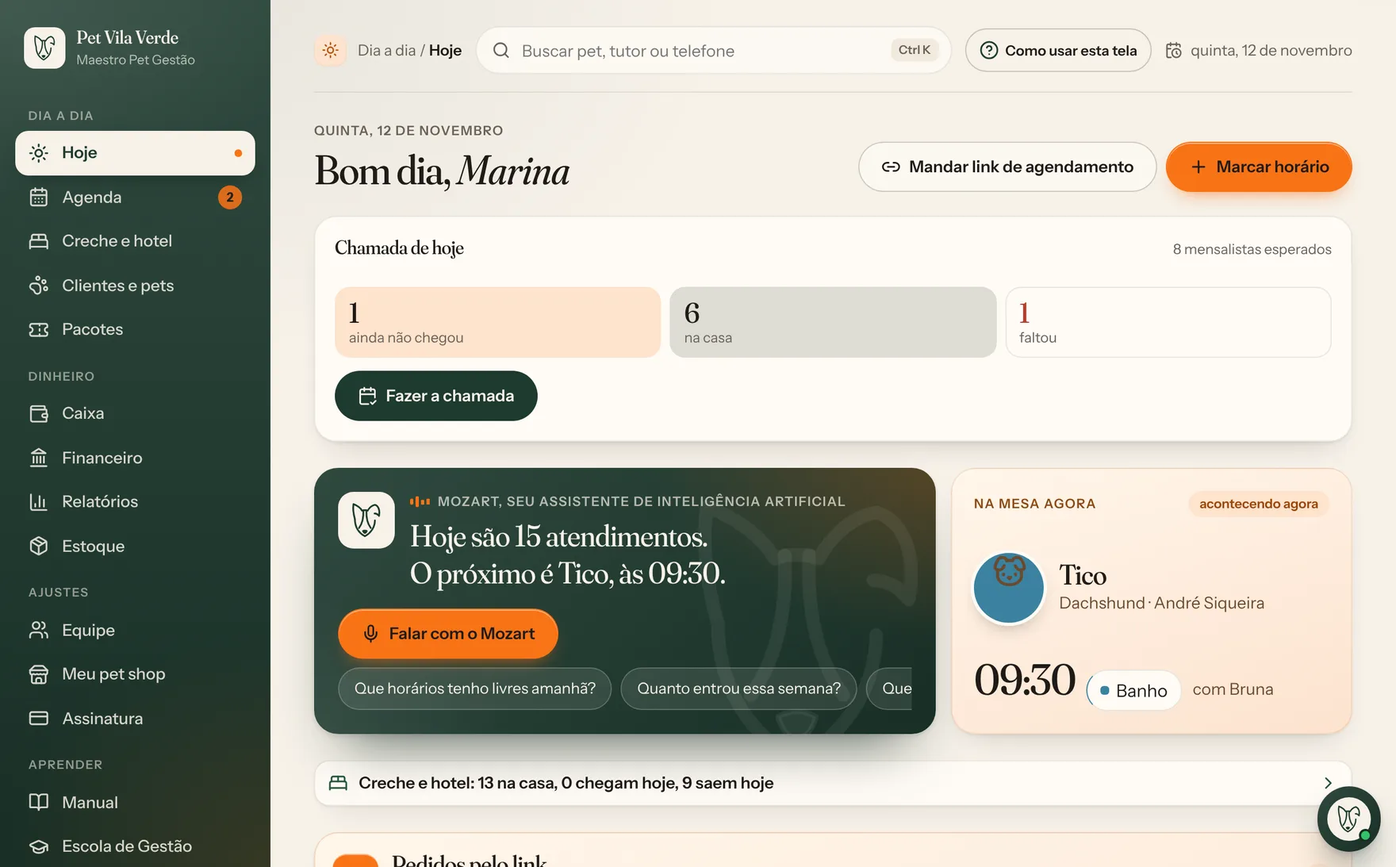
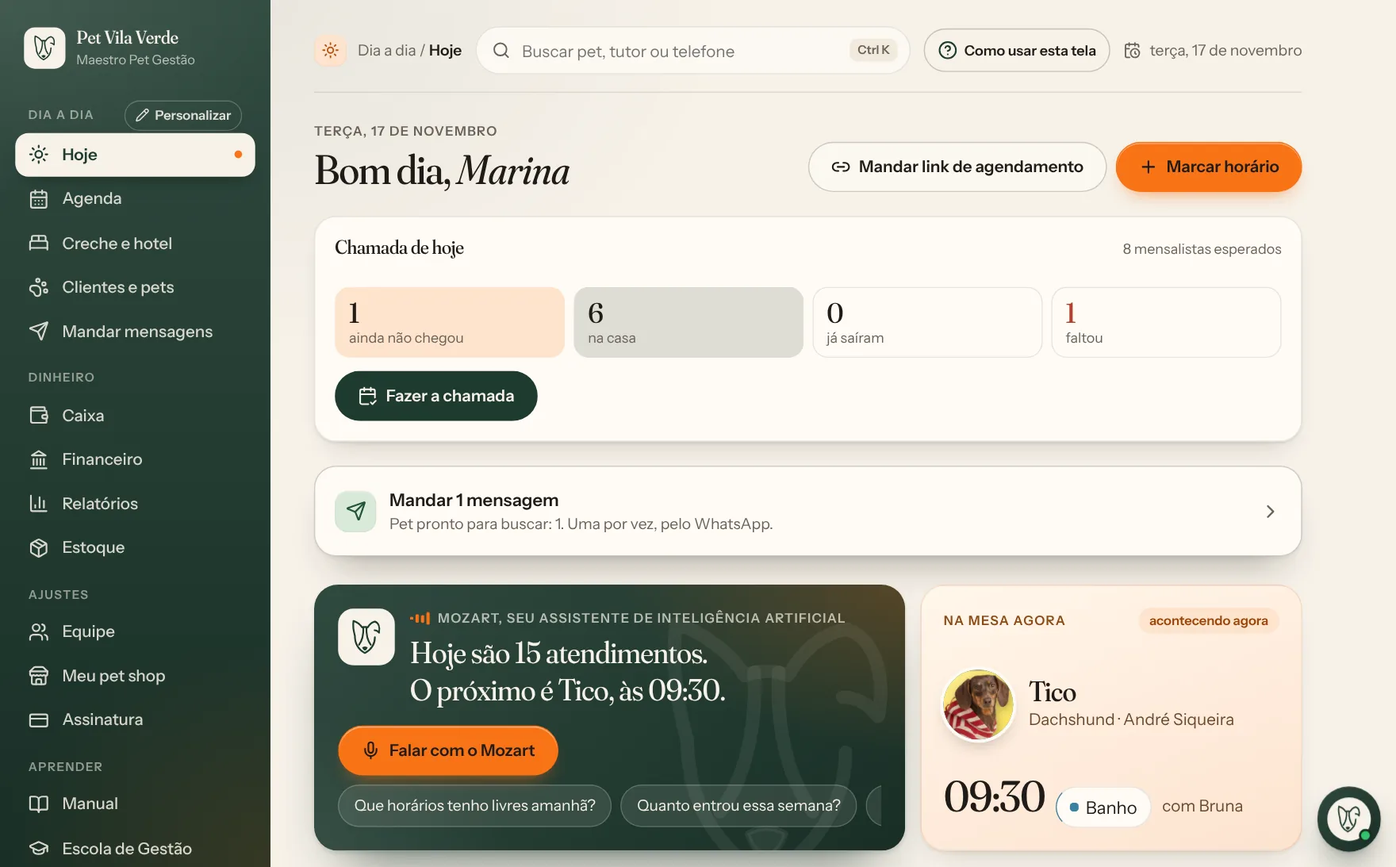
Página de venda: promessa mais clara, funções novas com tela de verdade e fotos reais
- Capa: "O seu pet shop organizado, do banho ao caixa", com o Mozart nos selos e quanto custa manter o pet shop.
- O que muda: duas seções novas com tela tirada do sistema (quanto custa manter o pet shop, nas contas fixas,
  e o quadro do dia do banho e tosa com entrada e leva e traz). Mozart vira a 7ª.
- Novidades: cartões curtos do que chegou por último (mensagens em fila, promoção, orçamento pelo link,
  estoque com lote e validade, resumo da semana, Mozart mais rápido, convite por link, dados do tutor).
- O que não faz: maquininha, leva e traz sem mapa ao vivo e cópia de segurança que não volta.
- Perguntas, lista de funções, título e descrição atualizados (manual com mais de 200 tópicos).
- Boletim de exemplo com duas fotos de verdade da mesma poodle, no lugar dos cachorros desenhados.
- Tela inicial (pc-hoje) tirada de novo com o Tico com foto na mesa.
- Na mesa agora: o ícone do pet sem foto ficava no canto do círculo (a regra dos textos do cartão
  pegava o avatar); agora fica centralizado.

Claude-Session: https://claude.ai/code/session_01HswiybaiUCNiJJ4YwPDB39

diff --git a/src/app/(gestao)/gestao/page.tsx b/src/app/(gestao)/gestao/page.tsx
@@ -1,6 +1,6 @@
 import type { Metadata } from "next";
 import Link from "next/link";
-import { ArrowRight, CalendarCheck, Check, MessageCircle, Monitor, Palette, Smartphone, Sparkles, ToggleRight } from "lucide-react";
+import { ArrowRight, Boxes, CalendarCheck, CalendarRange, Check, FileText, Gauge, KeyRound, Megaphone, MessageCircle, Monitor, Palette, Send, ShieldCheck, Smartphone, Sparkles, ToggleRight } from "lucide-react";
 import Instalar from "@/components/gestao/instalar";
 import Vitrine, { Areas } from "@/components/gestao/vitrine";
 import ChatVendas from "@/components/gestao/chat-vendas";
@@ -14,15 +14,15 @@ import "./produto.css";
 
 // espaço que não quebra: "R$ 59" fica sempre na mesma linha
 const DESDE = brlCurto(PLANOS[0].preco).replace(" ", "\u00a0");
-const TITULO = `Maestro Pet Gestão: banho e tosa, creche, hotel e loja num sistema só, desde ${DESDE}`;
+const TITULO = `Maestro Pet Gestão: sistema para pet shop, banho e tosa, creche, hotel e loja, desde ${DESDE}`;
 
 export const metadata: Metadata = {
   title: { absolute: TITULO },
-  description: `Banho e tosa, creche, hotel e loja no mesmo sistema, com todas as funções em todos os planos, desde ${DESDE} por mês. Boletim do pet com fotos pelo link, clientes trazidos da foto do caderno, creche com a cobrança do mês, hotel com diária por porte e o Mozart, assistente por voz e texto, sem pagar à parte. 7 dias grátis, sem cartão.`,
+  description: `Agenda, clientes, creche, hotel, loja e financeiro do pet shop num sistema só, com todas as funções em todos os planos, desde ${DESDE} por mês. Boletim do pet com fotos pelo link, quadro do dia do banho e tosa, quanto custa manter o pet shop e o Mozart, assistente por voz e texto, sem pagar à parte. 7 dias grátis, sem cartão.`,
   // A página de venda aparece no Google; o aplicativo e as telas de entrada continuam fora (layout do grupo).
   robots: { index: true, follow: true },
   alternates: { canonical: "/gestao" },
-  openGraph: { title: TITULO, description: `Todas as funções em todos os planos, desde ${DESDE}. Boletim do pet com fotos pelo link, sem o tutor instalar nada. Creche que fecha a conta do mês, hotel com o preço certo até no link do cliente, dinheiro protegido quando tem equipe e o Mozart, assistente por voz e texto. 7 dias grátis, sem cartão.`, url: "/gestao" },
+  openGraph: { title: TITULO, description: `O seu pet shop organizado, do banho ao caixa. Todas as funções em todos os planos, desde ${DESDE}: boletim do pet com fotos pelo link, quadro do dia, creche que fecha a conta do mês, hotel com o preço certo, quanto custa manter o pet shop e o Mozart, assistente por voz e texto. 7 dias grátis, sem cartão.`, url: "/gestao" },
 };
 
 const CRIAR = "/gestao/criar-conta";
@@ -34,11 +34,12 @@ const PEDIDOS: [string, string][] = [
   ["“Entrou dez sacos de ração a cento e quarenta.”", "Dá entrada no estoque e lança a compra como despesa."],
   ["“Quanto entrou essa semana?”", "Responde com os números do seu caixa, por forma de pagamento."],
   ["“Quem não aparece há dois meses?”", "Lista os pets e prepara a mensagem de WhatsApp para cada tutor. Quem envia é você."],
+  ["“A luz deste mês veio trezentos e oitenta.”", "Acha a conta de luz do mês em A pagar e mostra o valor novo para você confirmar."],
 ];
 
 type TelaVenda = { arquivo: string; alt: string; celular?: boolean };
 
-/** As quatro coisas que a página mostra primeiro (a quinta é o Mozart, na seção seguinte). Cada frase tem a tela real ao lado. */
+/** As seis coisas que a página mostra primeiro (a sétima é o Mozart, na seção seguinte). Cada frase tem a tela real ao lado. */
 const DIFERENCAS: { id: string; titulo: React.ReactNode; texto: string; itens: string[]; telas: TelaVenda[] }[] = [
   {
     id: "tudo", titulo: <>Tudo num plano só, <em>desde {DESDE}.</em></>,
@@ -49,6 +50,28 @@ const DIFERENCAS: { id: string; titulo: React.ReactNode; texto: string; itens: s
       "Sem fidelidade. 7 dias grátis, sem cartão.",
     ],
     telas: [{ arquivo: "pc-o-que-usa", alt: "Meu pet shop, cartão O que você usa: banho e tosa, creche, hotel, venda de produtos e pacotes marcados, e a área principal escolhida" }],
+  },
+  {
+    id: "contas", titulo: <>Saiba quanto custa <em>manter o pet shop.</em></>,
+    texto: "Cadastre uma vez o aluguel, a luz, os salários e as outras contas fixas. O Financeiro mostra quanto elas somam por mês, quanto você precisa faturar para pagá-las e quanto já entrou.",
+    itens: [
+      "A conta de cada mês entra sozinha em A pagar, 10 dias antes de vencer. Luz e água entram com um valor aproximado até você escrever o certo.",
+      "Taxas da maquininha: ao receber no cartão, você vê quanto recebe de verdade. O crédito parcelado aparece mês a mês no que ainda vai cair.",
+      "Quanto sobrou de cada serviço e produto, já com o custo do material, e quanto cada pessoa atendeu e vendeu.",
+      "Indicadores: faturamento por mês, clientes que voltaram e os dias mais cheios. Sem movimento, a tela diz que ainda não tem dados.",
+    ],
+    telas: [{ arquivo: "pc-contas-fixas", alt: "Financeiro, aba Contas fixas: quanto custa manter o pet shop, quanto precisa faturar no mês para pagar as contas fixas e quanto já entrou, com a barra do quanto falta" }],
+  },
+  {
+    id: "banho", titulo: <>O banho e tosa <em>do começo ao fim.</em></>,
+    texto: "No quadro do dia, cada pet passa de Esperando para No banho, Secando, Pronto e Entregue. Quando ele fica pronto, a mensagem para o tutor abre no seu WhatsApp.",
+    itens: [
+      "Se você ligar, a Entrada abre na chegada: temperamento, ferida ou pulga com até 4 fotos, pertences e o aceite do tutor, assinado no aparelho ou pelo link.",
+      "O quadro pode ficar aberto numa TV ou num computador da loja. No computador, dá para arrastar o cartão.",
+      "Leva e traz: a lista de quem buscar e levar, a rota no Google Maps e o Estou chegando pelo WhatsApp.",
+      "No fim, o boletim com as fotos do banho, que o tutor abre pelo link.",
+    ],
+    telas: [{ arquivo: "pc-quadro", alt: "Quadro do dia do banho e tosa: os pets nas colunas Esperando, No banho, Secando / tosa, Pronto para buscar e Entregue, com o botão da próxima etapa em cada cartão" }],
   },
   {
     id: "creche", titulo: <>Creche que <em>fecha a conta do mês.</em></>,
@@ -83,7 +106,7 @@ const DIFERENCAS: { id: string; titulo: React.ReactNode; texto: string; itens: s
     itens: [
       "Trava de preço: se você ligar, quem só opera o caixa vende pelo preço da lista, com o desconto máximo que você definir.",
       "Atendimento concluído que ficou sem cobrar aparece numa lista para você conferir.",
-      "Cada pessoa vê só a própria comissão.",
+      "Cada pessoa vê só a própria comissão. Quem entra na equipe usa um link de convite, que vale 7 dias e só uma vez.",
       "Toque duplo no botão não lança o mesmo valor duas vezes.",
     ],
     telas: [
@@ -95,34 +118,49 @@ const DIFERENCAS: { id: string; titulo: React.ReactNode; texto: string; itens: s
 
 /** Dito com franqueza, perto das perguntas: o que o sistema ainda não faz. */
 const NAO_FAZ: string[] = [
-  "Não emite nota fiscal nem cupom fiscal.",
-  "Não envia WhatsApp sozinho, nem o boletim. As mensagens saem prontas: você só aperta enviar.",
+  "Não emite nota fiscal nem cupom fiscal. Para o contador, Relatórios e Financeiro saem em planilha.",
+  "Não envia WhatsApp sozinho, nem o boletim. As mensagens saem prontas, uma por vez: você só aperta enviar.",
   "Não recebe pagamento pela internet, nem sinal nem mensalidade. O tutor paga a você, e você anota.",
+  "Não se conecta à maquininha. Você escreve as taxas uma vez e o sistema faz a conta do que você recebe.",
   "Não avisa a hora do remédio. Ele guarda a ficha de cuidados e mostra a lista do dia.",
+  "Não mostra no mapa onde está o carro do leva e traz. A rota abre no Google Maps, com até 10 endereços por vez.",
+  "A cópia de segurança não volta para o sistema. Ela serve para guardar e consultar, e as fotos não entram.",
   "Não é para clínica veterinária: não tem prontuário, receita nem internação.",
   "Não tem aplicativo de loja para o tutor. O cliente usa o seu link.",
 ];
 
+/** O que chegou por último, em cartões curtos (o resto está nas seções com tela). Os textos seguem o manual. */
+const RECENTES: { icone: React.ComponentType; titulo: string; texto: string }[] = [
+  { icone: Send, titulo: "Mandar mensagens em fila", texto: "Lembretes de amanhã, pet pronto, cobrança, vacina vencendo, pacote acabando e aniversários do pet e do tutor: uma por vez, você aperta enviar e passa para a próxima." },
+  { icone: Megaphone, titulo: "Promoção nos dias fracos", texto: "Desconto no dia e no horário que você escolher. O link do cliente mostra o preço de antes e o preço com desconto." },
+  { icone: FileText, titulo: "Orçamento pelo link", texto: "Monte o orçamento e mande no WhatsApp. O cliente abre sem senha, vê a sua logo e toca em Quero fechar. Aceitou? Vira venda com um toque." },
+  { icone: Boxes, titulo: "Estoque mais completo", texto: "Lote e validade (sai primeiro o que vence antes), kits e combos, contagem pelo celular e etiquetas de preço com código de barras." },
+  { icone: CalendarRange, titulo: "Resumo da semana", texto: "Na segunda-feira, a tela Hoje mostra quanto entrou, os atendimentos, as faltas e os pets novos, ao lado da semana anterior." },
+  { icone: Gauge, titulo: "Mozart mais rápido", texto: "A resposta aparece aos poucos, enquanto ele escreve, e ele diz o que está fazendo. A leitura em voz alta começa antes de a resposta terminar." },
+  { icone: KeyRound, titulo: "Convite da equipe por link", texto: "Cada pessoa recebe um link só dela, que vale 7 dias e funciona uma vez. Venceu? Mande de novo e o anterior para de valer." },
+  { icone: ShieldCheck, titulo: "Dados do tutor (LGPD)", texto: "O cliente pediu os dados dele ou para apagar? Baixe a planilha dele ou apague os dados na ficha. Cada pedido fica registrado." },
+];
+
 const INCLUI: [string, string][] = [
-  ["Mozart, assistente por voz e texto", "Diga o que precisa, por áudio ou texto. Ele prepara e você confirma. Vem em todos os planos."],
+  ["Mozart, assistente por voz e texto", "Diga o que precisa, por áudio ou texto. Ele prepara e você confirma. Nos campos de observação também tem microfone. Vem em todos os planos."],
   ["Boletim do pet", "Fotos, recado, o que foi feito e o quadro de atenção à saúde numa página que o tutor abre pelo link, sem instalar nada."],
   ["Álbum do pet", "As fotos dos boletins e do antes e depois ficam na ficha do pet. Dá para mandar o álbum ao tutor."],
   ["Botão Avaliar no Google", "Se você quiser, ele aparece no fim do boletim, do álbum e do link de agendamento, para todos os clientes."],
   ["Trazer do caderno", "Foto do caderno, print ou PDF do sistema antigo: clientes, dívidas, agenda, preços e vacinas. Você confere tudo antes de salvar."],
-  ["Microfone nas observações", "Na ficha do pet, no horário, na estadia e no diário: você fala, o texto entra no campo e você salva."],
   ["Começo guiado", "Você marca o que o seu negócio faz e qual é a área principal. O menu mostra só o que você usa."],
   ["Você liga só o que usa", "Sinal, multa, comissão por serviço, código de barras, diário: cada opção começa desligada. Quem não liga nada não vê nada a mais."],
-  ["Agenda de banho e tosa", "Por dia e por semana, por profissional, com os horários livres à vista e vários serviços no mesmo horário."],
+  ["Agenda de banho e tosa", "Por dia e por semana, por profissional, com os horários livres à vista e vários serviços no mesmo horário. Dá para imprimir a do dia."],
   ["Horários que se repetem", "Marque o banho de toda semana ou quinzena de uma vez, até você cancelar. Almoço, folgas e feriados ficam bloqueados."],
   ["Link de agendamento", "O cliente pede horário de banho, dia de creche ou reserva de hotel. Você aceita ou recusa com um toque."],
   ["Sua marca no sistema", "Sua logo e as suas cores no link do cliente, nas telas e na agenda impressa."],
   ["Clientes e pets", "Porte, cuidados, alertas e o histórico de cada atendimento. Cadastro repetido? Dá para juntar as duas fichas."],
   ["Saúde do pet", "Vacinas, vermífugo e antipulgas com a data de vencer e aviso quando está chegando."],
+  ["Quadro do dia e Entrada", "As etapas de cada pet, do Esperando ao Entregue, e o checklist de chegada com fotos e o aceite do tutor."],
   ["Fotos de antes e depois", "Guarde o resultado do banho e mande para o tutor."],
   ["Lembrete e aviso de pet pronto", "O sistema monta a mensagem e abre o seu WhatsApp. Você só envia."],
-  ["Chamar de volta", "A lista de quem não vem há 30, 45, 60 ou 90 dias e dos aniversariantes da semana, com a mensagem pronta. Você só envia."],
+  ["Chamar de volta", "Quem não vem há 30, 45, 60 ou 90 dias e os aniversariantes do pet e do tutor, com a mensagem pronta. Você só envia."],
   ["Fidelidade do seu jeito", "Você define: a cada tantos atendimentos, um prêmio à sua escolha. O sistema faz a conta de cada tutor."],
-  ["Pacotes", "Quantos banhos o cliente comprou, quantos usou e quando vence."],
+  ["Pacotes", "Quantos banhos o cliente comprou, quantos usou e quando vence. O pacote acabando aparece com a mensagem para renovar."],
   ["Creche com mensalistas", "Plano pelos dias da semana, chamada do dia, dia extra, reposição e as cobranças do mês juntas por tutor."],
   ["Hotel", "Reserva com sinal, diária por porte, temporada e feriado, calendário de ocupação e check-out com taxas."],
   ["Cuidado com o tutor", "Diário do dia, quem pode buscar o pet, lista de espera e ocorrências. O diário sai pronto para você enviar."],
@@ -130,22 +168,23 @@ const INCLUI: [string, string][] = [
   ["Comprovante no WhatsApp", "Recebeu a conta? O sistema monta o comprovante e abre o seu WhatsApp. Não é nota fiscal."],
   ["Caixa do dia", "Abertura, entradas, saídas e fechamento conferido com a gaveta, com planilha para baixar."],
   ["Paga depois e em partes", "Anote quem ficou devendo, receba só uma parte e, se quiser, cobre multa e juros da conta atrasada."],
-  ["Financeiro e meta do mês", "Contas a pagar e a receber, o resultado do mês e quanto falta para a meta."],
-  ["Estoque e loja", "Entradas, saídas, aviso de produto acabando, código de barras, fornecedores, margem e custo médio."],
-  ["Equipe com acesso por área", "Você escolhe o que cada pessoa abre. Quem não cuida do dinheiro não vê valores."],
+  ["Financeiro e contas fixas", "Contas a pagar e a receber, contas fixas que entram sozinhas, quanto custa manter o pet shop, o resultado do mês e a meta."],
+  ["Quanto sobrou e Indicadores", "O que sobrou de cada serviço, produto e pessoa, e os gráficos do negócio mês a mês, ao lado do período anterior."],
+  ["Estoque e loja", "Entradas, saídas, lote e validade, kits, contagem, etiquetas, código de barras, fornecedores, margem e custo médio."],
+  ["Equipe com acesso por área", "Você escolhe o que cada pessoa abre e manda o convite por link. Quem não cuida do dinheiro não vê valores."],
   ["Comissão", "Por pessoa, por serviço e sobre produtos. Cada um vê a própria no cartão Minha comissão."],
   ["Quem mudou o quê", "Alguém alterou ou apagou um valor recebido, ou vendeu fora do preço da lista? Fica anotado quem foi, quando e de quanto para quanto."],
   ["Preço travado no caixa", "Se quiser, só você e quem vê o financeiro mudam preço ou dão desconto. O caixa dá, no máximo, o desconto que você definir."],
-  ["Agenda em PDF", "Baixe ou imprima a agenda do dia para deixar na bancada."],
   ["Relatórios", "Atendimentos, faltas, serviços mais feitos, faturamento, comissão, creche, hotel e vendas por produto, ao lado do período anterior."],
-  ["Leva e traz", "Marque quem precisa ser buscado, com o endereço no próprio horário."],
+  ["Leva e traz", "A lista do dia de quem buscar e levar, com o endereço, a rota no Google Maps e o aviso Estou chegando."],
   ["Clientes da sua planilha", "Traga clientes, pets e produtos de uma planilha. Na de clientes, você confere o que é cada coluna e, se trouxe a planilha errada, desfaz."],
-  ["Manual dentro do sistema", "Mais de 150 tópicos de passo a passo, com busca e para imprimir. E o botão “Como usar esta tela” no alto das telas."],
-  ["Cópia dos seus dados", "Baixe tudo em planilhas para guardar com você. É uma cópia para consulta: não volta para o sistema automaticamente."],
+  ["Manual dentro do sistema", "Mais de 200 tópicos de passo a passo, com busca e para imprimir. E o botão “Como usar esta tela” no alto das telas."],
+  ["Seus dados e os do tutor", "Baixe tudo em planilhas quando quiser, e baixe ou apague os dados de um tutor que pedir (LGPD). A cópia é para guardar: não volta para o sistema."],
 ];
 
 const PERGUNTAS: [string, React.ReactNode][] = [
-  ["O que vocês têm de diferente?", `Dizemos o que fazemos, sem comparar com ninguém. Todas as funções estão em todos os planos, desde ${DESDE}: banho e tosa, creche, hotel e loja no mesmo sistema. A creche tem plano por dia da semana, reposição de falta com a sua regra e as cobranças do mês juntas por tutor. O hotel calcula a diária por porte, temporada e feriado, e o tutor vê a estimativa no seu link. Quem tem equipe conta com trava de preço, valores escondidos de quem não cuida do dinheiro e o histórico de quem mudou um valor. E o Mozart, assistente por voz e texto, vem em todos os planos, sem pagar à parte. De novo: o boletim do pet com fotos, que o tutor abre pelo link sem instalar nada, e a leitura da foto do caderno ou do PDF do sistema antigo, que você confere antes de salvar. O que o sistema ainda não faz está logo acima destas perguntas.`],
+  ["O que vocês têm de diferente?", `Dizemos o que fazemos, sem comparar com ninguém. Todas as funções estão em todos os planos, desde ${DESDE}: banho e tosa, creche, hotel e loja no mesmo sistema. O boletim do pet leva as fotos ao tutor pelo link, sem ele instalar nada. A foto do caderno ou o PDF do sistema antigo viram cadastro, e você confere antes de salvar. No Financeiro, você vê quanto custa manter o pet shop e quanto já entrou no mês. A creche tem plano por dia da semana e as cobranças do mês juntas por tutor. O hotel calcula a diária por porte, temporada e feriado. Quem tem equipe conta com trava de preço, valores escondidos de quem não cuida do dinheiro e o histórico de quem mudou um valor. E o Mozart, assistente por voz e texto, vem em todos os planos, sem pagar à parte. O que o sistema ainda não faz está logo acima destas perguntas.`],
+  ["Consigo saber quanto preciso faturar no mês?", "Para as contas fixas, sim. Em Financeiro, na aba Contas fixas, você cadastra aluguel, luz, salários e o que mais se repete. O quadro Quanto custa manter o pet shop mostra quanto elas somam por mês, quanto você precisa faturar para pagá-las e quanto já entrou neste mês. Produtos, comissões e outras despesas vêm por cima: o quadro não conta essas."],
   ["Quanto custa?", `O plano Solo custa ${DESDE} por mês, para 1 pessoa com login. O Equipe, para até 3 pessoas, custa ${brlCurto(PLANOS[1].preco)}, e o Pet shop, para até 6, ${brlCurto(PLANOS[2].preco)}. Todos têm as mesmas funções. Pagando 3 ou 6 meses de uma vez, sai mais barato. Antes, são 7 dias grátis, sem cartão.`],
   ["O que é o boletim do pet?", "É uma página com as fotos do atendimento, o recado da equipe, o que foi feito e, se você viu algo na saúde, um quadro “Para você ficar de olho”. Você monta em poucos toques (o Mozart pode escrever o recado), e a mensagem com o link sai pronta para o seu WhatsApp. O tutor abre no celular, sem instalar nada. O valor só aparece se você ligar. O link vale 60 dias e as fotos ficam no álbum do pet."],
   ["Tenho tudo num caderno. Preciso digitar de novo?", "Não precisa digitar um por um. Em Clientes e pets, toque em Foto do caderno, fotografe a página e o sistema lê: clientes e pets, quem te deve, agenda e tabela de preços. Tudo aparece numa tela para você conferir e corrigir. Nada entra antes de você tocar em Salvar, e o que não deu para ler fica em branco. Há um limite de 30 páginas por dia."],
@@ -155,23 +194,24 @@ const PERGUNTAS: [string, React.ReactNode][] = [
   ["Preciso configurar muita coisa para começar?", "Não. Ao criar a conta, você marca o que o seu negócio faz (banho e tosa, creche, hotel, venda de produtos, pacotes) e qual é a área principal. O menu e a tela inicial se arrumam para ela. Em seguida, um guia curto acerta o horário, a equipe, os preços e o link do cliente. Cada passo pode ficar para depois, e tudo pode ser mudado mais tarde."],
   ["Serve para creche ou escolinha?", "Sim. Cada mensalista tem um plano pelos dias da semana. Todo dia você faz a chamada com um toque. Dia extra entra na cobrança do mês seguinte, e as cobranças saem juntas por tutor. Se quiser, você liga a taxa de busca fora do horário, o diário do dia para o tutor, a lista de quem pode buscar o pet e a lista de espera."],
   ["Serve para hotel de pets?", "Sim. Tem reserva com sinal, diária por porte, por temporada e em feriado, desconto para o segundo pet, calendário de ocupação com aviso de casa cheia, folha do dia para imprimir, ficha de cuidados com comida e remédio e check-out com taxas. O sistema guarda a ficha de cuidados e mostra a lista do dia, mas não avisa a hora do remédio."],
-  ["Tenho só loja. Serve?", "Serve para controlar o estoque, vender no balcão com leitor de código de barras, guardar fornecedores, ver a margem de cada produto e anotar o fiado. O sistema não emite nota fiscal nem cupom fiscal."],
+  ["Tenho só loja. Serve?", "Serve para controlar o estoque com lote e validade, montar kits, fazer a contagem pelo celular, imprimir etiquetas de preço, vender no balcão com leitor de código de barras, mandar orçamento pelo link, guardar fornecedores, ver a margem de cada produto e anotar o fiado. O sistema não emite nota fiscal nem cupom fiscal."],
+  ["Dá para ver quanto a maquininha fica?", "Dá. Em Meu pet shop, você escreve as taxas do débito, do crédito à vista, do parcelado e do Pix. Na hora de receber no cartão, aparece quanto você recebe. Em Financeiro e Relatórios, você vê quanto ficou com a maquininha e o que ainda vai cair na conta, dia a dia. O preço do cliente não muda, e o sistema não se conecta à maquininha."],
   ["Funciona no celular?", "Sim. Ele foi feito primeiro para o celular. No computador funciona igual, com a tela maior."],
   ["O assistente faz as coisas sozinho?", "Não. O Mozart entende o pedido, mostra o que vai fazer e espera o seu “confirmar”. Nada entra na agenda, no caixa ou no estoque sem você ver."],
   ["O Mozart custa à parte?", "Não. Ele vem em todos os planos, inclusive no Solo. Existe um limite de pedidos por dia, igual em todos os planos. Se ele for atingido, o Mozart volta no dia seguinte e as telas continuam funcionando normalmente."],
   ["Quem é a Nina e quem é o Mozart?", "A Nina responde dúvidas aqui no site, antes de você criar a conta. O Mozart trabalha dentro do sistema: marca horário, faz check-in, dá entrada no estoque e responde sobre o seu caixa. Os dois são assistentes de inteligência artificial."],
-  ["O sistema manda mensagem no WhatsApp sozinho?", "Não. As mensagens do WhatsApp saem prontas: lembrete, aviso de pet pronto, confirmação, cobrança, diário. Você toca no botão, o seu WhatsApp abre com o texto escrito e você só aperta enviar. A mensagem sai do seu número."],
+  ["O sistema manda mensagem no WhatsApp sozinho?", "Não. As mensagens do WhatsApp saem prontas: lembrete, aviso de pet pronto, confirmação, cobrança, diário. Você toca no botão, o seu WhatsApp abre com o texto escrito e você só aperta enviar. A mensagem sai do seu número. Em Mandar mensagens, elas vêm uma depois da outra, para você passar por todas de uma vez."],
   ["Como o meu cliente agenda pelo link?", "Você manda o link pelo WhatsApp ou deixa no Instagram. O cliente escolhe banho, creche ou hotel, o dia e a hora, e você recebe o pedido para aceitar ou recusar. No hotel, ele já vê uma estimativa do valor. Ele não vê a sua agenda nem os dados de outros clientes, só os horários que estão livres."],
   ["O cliente paga pelo link?", "Não. Pelo link o cliente só pede. O sistema não recebe pagamento pela internet: o tutor paga direto para você, e você anota no sistema. Se você usa sinal na reserva, o link avisa que o sinal vai ser pedido e a mensagem de confirmação leva o valor e a sua chave Pix."],
   ["O cliente pode cancelar pelo link?", "Só se você deixar. É uma opção: você liga e escolhe até quantas horas antes ele pode cancelar ou pedir outra data. Você fica sabendo na tela inicial e na agenda."],
   ["O que o cliente vê tem a minha marca?", "Sim. Você coloca a sua logo e escolhe as suas cores. Elas aparecem no link de agendamento, nas telas do sistema e na agenda impressa."],
-  ["E os dados dos meus clientes?", <>Os dados são do seu negócio. Você pode exportar e apagar quando quiser, como pede a LGPD. Os detalhes estão na <Link href="/gestao/privacidade">política de privacidade</Link>.</>],
+  ["E os dados dos meus clientes?", <>Os dados são do seu negócio. Se um tutor pedir, você baixa os dados dele numa planilha ou apaga os dados dele, como pede a LGPD, e o pedido fica registrado. Você também baixa tudo quando quiser. Para encerrar a conta, a exclusão acontece em 30 dias e, até lá, dá para voltar atrás. Os detalhes estão na <Link href="/gestao/privacidade">política de privacidade</Link>.</>],
   ["Emite nota fiscal?", "Não. Hoje o sistema não emite nota fiscal. O comprovante que ele monta para você mandar pelo WhatsApp não é documento fiscal."],
-  ["Tem manual?", "Sim, dentro do sistema. São mais de 150 tópicos com o passo a passo de cada tarefa, com busca e opção de imprimir. No alto das telas, o botão “Como usar esta tela” abre a explicação daquela tela. Se ainda ficar dúvida, o suporte atende pelo WhatsApp."],
+  ["Tem manual?", "Sim, dentro do sistema. São mais de 200 tópicos com o passo a passo de cada tarefa, com busca e opção de imprimir. No alto das telas, o botão “Como usar esta tela” abre a explicação daquela tela. Se ainda ficar dúvida, o suporte atende pelo WhatsApp."],
   ["Meus dados ficam presos no sistema?", "Não. Clientes, caixa, financeiro e relatórios saem em planilha. Em Meu pet shop, você também baixa uma cópia de segurança com tudo em planilhas, que abrem no Excel e no Google Planilhas. Essa cópia é para guardar e consultar: ainda não dá para trazê-la de volta para o sistema automaticamente, e as fotos não entram."],
   ["Estou em outro sistema. Consigo trazer meus clientes?", "Sim. Se o sistema antigo gera PDF ou você tira print da lista, mande em Foto do caderno: o sistema lê e você confere antes de salvar. Também dá para trazer clientes, pets e produtos de uma planilha, colando as células ou enviando o arquivo. Na planilha de clientes, o sistema mostra o que entendeu de cada coluna e você corrige antes de trazer. O que já está no sistema não é apagado. Trouxe a planilha errada? Dá para desfazer a importação."],
   ["Serve para clínica veterinária?", "O sistema é feito para banho e tosa, creche, hotel e loja de pet shop. Ele não tem prontuário, receituário nem internação. Uma clínica que também faz banho e tosa pode usá-lo para essa parte."],
-  ["Posso colocar a minha equipe?", "Sim. Cada pessoa entra com o próprio acesso, e você escolhe o que ela abre: agenda, clientes, creche e hotel, pacotes, estoque, caixa, financeiro, relatórios. Quem não cuida do dinheiro não vê valores. Dá para ter mais de um dono. O número de pessoas com login depende do plano: 1, 3 ou 6. Banhista ou tosador que só aparece na agenda, sem entrar no sistema, não conta."],
+  ["Posso colocar a minha equipe?", "Sim. Cada pessoa entra com o próprio acesso, e você escolhe o que ela abre: agenda, clientes, creche e hotel, pacotes, estoque, caixa, financeiro, relatórios. Quem não cuida do dinheiro não vê valores. Dá para ter mais de um dono. O número de pessoas com login depende do plano: 1, 3 ou 6. Banhista ou tosador que só aparece na agenda, sem entrar no sistema, não conta. Para entrar, a pessoa recebe um link de convite, que vale 7 dias e funciona uma vez."],
   ["Tem contrato de fidelidade?", "Não. A cobrança da assinatura é feita pela Cakto, a empresa que cuida dos pagamentos para nós. No plano mensal a cobrança é todo mês. Nos planos de 3 e 6 meses você paga o período de uma vez, por um valor menor. Em qualquer um, você cancela quando quiser e usa até o fim do período já pago."],
   ["Posso trocar de plano depois?", "Pode. Hoje a troca é feita cancelando o plano atual e assinando o novo; os dados continuam os mesmos."],
   ["O que acontece quando os 7 dias acabam?", "A conta fica só para consulta e os dados continuam guardados. Para voltar a usar, é só escolher um plano. Nada é cobrado sozinho, porque o teste não pede cartão."],
@@ -196,8 +236,8 @@ export default function Pagina() {
             <span>Maestro Pet <em>Gestão</em></span>
           </Link>
           <nav aria-label="Página">
-            <a href="#novidades" className="gp-link so-pc">Novidades</a>
             <a href="#diferencas" className="gp-link so-pc">O que muda</a>
+            <a href="#novidades" className="gp-link so-pc">Novidades</a>
             <a href="#para-quem" className="gp-link so-pc">Para quem é</a>
             <a href="#funcoes" className="gp-link so-pc">Funções</a>
             <a href="#plano" className="gp-link gp-link-precos">Preços</a>
@@ -209,12 +249,12 @@ export default function Pagina() {
 
         <div className="gp-c gp-capa-grade">
           <div className="gp-capa-texto">
-            <h1>Banho e tosa, creche, hotel e loja. <em>Um sistema só</em>, no celular.</h1>
-            <p>Você marca o que o seu negócio faz e o sistema mostra só isso. E fala “banho da Mel sexta às 10”: o Mozart deixa pronto para você confirmar.</p>
+            <h1>O seu pet shop organizado, <em>do banho ao caixa.</em></h1>
+            <p>Agenda, clientes, creche, hotel, loja e dinheiro num sistema só, no celular e no computador. Fale “banho da Mel sexta às 10” e o Mozart deixa pronto para você confirmar.</p>
             <ul className="gp-selos">
-              <li><Check />Todas as funções em todos os planos, desde {DESDE}</li>
-              <li><Check />Mozart, assistente por voz e texto, sem pagar à parte</li>
-              <li><Check />Boletim do pet e link de agendamento, sem o tutor instalar nada</li>
+              <li><Check />Todas as funções em todos os planos, desde {DESDE}, com o Mozart incluído</li>
+              <li><Check />Boletim do pet com fotos e link de agendamento, sem o tutor instalar nada</li>
+              <li><Check />Quanto custa manter o pet shop e quanto já entrou no mês</li>
             </ul>
             <div className="gp-acao">
               <a href={CRIAR} className="gp-btn pri grande">Teste grátis por 7 dias <ArrowRight /></a>
@@ -224,7 +264,7 @@ export default function Pagina() {
             <a href="#instalar" className="gp-baixar"><Smartphone /><Monitor />Instale direto pelo site, no celular e no computador</a>
           </div>
           <div className="gp-capa-telas">
-            <Tela arquivo="pc-hoje" alt="Tela inicial do Maestro Pet Gestão no computador: a chamada da creche, o resumo do dia e o atendimento que está na mesa" prioridade />
+            <Tela arquivo="pc-hoje" alt="Tela inicial do Maestro Pet Gestão no computador: a chamada da creche, as mensagens para mandar, o Mozart e o Tico, um dachshund, na mesa agora" prioridade />
             <Tela arquivo="cel-agenda" alt="Agenda do dia no celular, com os horários de cada pet" celular prioridade />
           </div>
         </div>
@@ -235,7 +275,7 @@ export default function Pagina() {
       <section className="gp-dif-sec" id="diferencas">
         <div className="gp-c">
           <h2>O que muda <em>no seu dia a dia.</em></h2>
-          <p className="gp-lead">Cinco coisas que o sistema faz por você, cada uma com a tela de verdade.</p>
+          <p className="gp-lead">Seis coisas que o sistema faz por você, cada uma com a tela de verdade. A sétima é o Mozart.</p>
           <ol className="gp-dif">
             {DIFERENCAS.map((d, i) => (
               <li key={d.id} id={`dif-${d.id}`} className={`gp-dif-item${i % 2 ? " inverte" : ""}`}>
@@ -257,9 +297,9 @@ export default function Pagina() {
       <section className="gp-pedir" id="mozart">
         <div className="gp-c gp-pedir-grade">
           <div>
-            <p className="gp-ia"><Sparkles />05 · Mozart, assistente de inteligência artificial</p>
+            <p className="gp-ia"><Sparkles />07 · Mozart, assistente de inteligência artificial</p>
             <h2>Mozart em todas as áreas, <em>em todos os planos.</em></h2>
-            <p className="gp-lead">Toque no microfone ou escreva, do seu jeito. O Mozart ajuda na agenda, no check-in da creche e do hotel, no estoque e nas perguntas sobre o caixa. Vem em todos os planos, sem pagar à parte.</p>
+            <p className="gp-lead">Toque no microfone ou escreva, do seu jeito. O Mozart ajuda na agenda, no check-in da creche e do hotel, no estoque, nas contas e nas perguntas sobre o caixa. A resposta aparece aos poucos, enquanto ele escreve. Vem em todos os planos, sem pagar à parte.</p>
             <ul className="gp-falas">
               {PEDIDOS.map(([fala, faz]) => (
                 <li key={fala}><q>{fala.slice(1, -1)}</q><span>{faz}</span></li>
@@ -269,6 +309,17 @@ export default function Pagina() {
             <p className="gp-nota"><Check />Nos campos de observação também tem microfone: você fala, confere e salva.</p>
           </div>
           <Tela arquivo="cel-assistente" alt="O assistente Mozart aberto no celular, com o microfone e exemplos de pedidos" celular />
+        </div>
+      </section>
+
+      <section className="gp-recentes" id="novidades" aria-labelledby="novidades-titulo">
+        <div className="gp-c">
+          <p className="gp-ia claro"><Sparkles />Novidades</p>
+          <h2 id="novidades-titulo">O que chegou <em>por último.</em></h2>
+          <p className="gp-lead">Tudo isto já está em todos os planos, sem pagar a mais. O que é opção começa desligado: você liga se quiser.</p>
+          <ul className="gp-recentes-lista">
+            {RECENTES.map(({ icone: Icone, titulo, texto }) => <li key={titulo}><span className="gp-recentes-ico" aria-hidden><Icone /></span><b>{titulo}</b><span>{texto}</span></li>)}
+          </ul>
         </div>
       </section>
 

diff --git a/src/components/gestao/novidades-venda.tsx b/src/components/gestao/novidades-venda.tsx
@@ -1,45 +1,25 @@
 import { Camera, Check, FileText, HeartPulse, Mic, PawPrint, Sparkles, Star } from "lucide-react";
 
 /**
- * As três novidades na página de venda (boletim do pet, trazer do caderno e falar em vez de digitar), cada uma com um desenho
- * da tela feito em HTML e SVG: nada de foto de pessoa nem de pet de verdade, e nenhuma imagem a mais para baixar.
- * Os nomes (Pipoca, Thor, Ana) são de exemplo. Os textos seguem o manual (src/lib/gestao/manual.ts: boletim, caderno, mozart-voz).
+ * As três vitrines logo depois da capa (boletim do pet, trazer do caderno e falar em vez de digitar), cada uma com um desenho
+ * da tela feito em HTML e SVG. No boletim, as duas fotos são de verdade: a mesma poodle depois do banho (public/gestao/boletim,
+ * recortadas das fotos do feed pronto do pet shop). Nada de foto de pessoa. Os nomes (Pipoca, Thor, Ana) são de exemplo.
+ * Os textos seguem o manual (src/lib/gestao/manual.ts: boletim, caderno, mozart-voz).
  */
-
-/** Desenho de um cachorrinho de lacinho, no lugar da foto do banho. */
-function Cachorro({ fundo }: { fundo: string }) {
-  return (
-    <svg viewBox="0 0 120 120" aria-hidden>
-      <rect width="120" height="120" rx="14" fill={fundo} />
-      <g opacity=".18" fill="#1e3a2f">
-        <circle cx="20" cy="24" r="4" /><circle cx="28" cy="18" r="3" /><circle cx="14" cy="16" r="3" /><circle cx="22" cy="11" r="3" />
-        <circle cx="100" cy="98" r="4" /><circle cx="108" cy="92" r="3" /><circle cx="94" cy="90" r="3" /><circle cx="102" cy="85" r="3" />
-      </g>
-      <ellipse cx="34" cy="56" rx="13" ry="24" fill="#a8693c" transform="rotate(18 34 56)" />
-      <ellipse cx="86" cy="56" rx="13" ry="24" fill="#a8693c" transform="rotate(-18 86 56)" />
-      <circle cx="60" cy="64" r="30" fill="#e7b98a" />
-      <ellipse cx="60" cy="78" rx="17" ry="13" fill="#f7e3cc" />
-      <circle cx="49" cy="60" r="4" fill="#1f1b17" /><circle cx="71" cy="60" r="4" fill="#1f1b17" />
-      <circle cx="50.3" cy="58.6" r="1.3" fill="#fff" /><circle cx="72.3" cy="58.6" r="1.3" fill="#fff" />
-      <ellipse cx="60" cy="72" rx="6" ry="4.4" fill="#1f1b17" />
-      <path d="M54 79q6 5 12 0" stroke="#1f1b17" strokeWidth="2" fill="none" strokeLinecap="round" />
-      <path d="M57 81q3 8 6 0" fill="#ef7b7b" />
-      <path d="M60 36l-12-7v14zM60 36l12-7v14z" fill="#f97316" /><circle cx="60" cy="36" r="3.4" fill="#ea670c" />
-    </svg>
-  );
-}
 
 function Boletim() {
   return (
-    <div className="gp-nv-fone" role="img" aria-label="Desenho do boletim do pet no celular do tutor: fotos do banho, o recado da equipe, o quadro Para você ficar de olho, o que foi feito, o botão Marcar o próximo e o convite para avaliar no Google">
+    <div className="gp-nv-fone" role="img" aria-label="Exemplo do boletim do pet no celular do tutor: duas fotos da Pipoca, uma poodle branca de lacinho rosa, depois do banho, o recado da equipe, o quadro Para você ficar de olho, o que foi feito, o botão Marcar o próximo e o convite para avaliar no Google">
       <div className="gp-nv-tela" aria-hidden>
         <div className="gp-bm-loja"><span className="gp-bm-logo"><PawPrint /></span><span><b>Banho &amp; Cia</b><small>Exemplo · SP</small></span></div>
         <p className="gp-bm-sobre">Boletim da Pipoca</p>
         <p className="gp-bm-nome">Pipoca</p>
         <p className="gp-bm-quando"><span>Banho e tosa</span>sexta, 14 de novembro</p>
         <div className="gp-bm-fotos">
-          <Cachorro fundo="#dcebe2" />
-          <Cachorro fundo="#fde7d4" />
+          {/* eslint-disable-next-line @next/next/no-img-element */}
+          <img src="/gestao/boletim/pipoca-1.webp" alt="" width={320} height={400} loading="lazy" decoding="async" />
+          {/* eslint-disable-next-line @next/next/no-img-element */}
+          <img src="/gestao/boletim/pipoca-2.webp" alt="" width={320} height={400} loading="lazy" decoding="async" />
         </div>
         <div className="gp-bm-carta">
           <Sparkles />
@@ -148,22 +128,22 @@ const NOVIDADES: { id: string; selo: string; titulo: React.ReactNode; texto: str
     itens: [
       "Dá para segurar o microfone enquanto fala e soltar no fim.",
       "Nos campos de observação (ficha do pet, horário, estadia, diário) tem um microfone pequeno: você fala, confere e salva.",
-      "Se quiser, o Mozart lê as respostas em voz alta.",
+      "A resposta aparece aos poucos, enquanto ele escreve. Se quiser, ele lê em voz alta, com a voz do aparelho que você escolher.",
       "Usa o ditado do próprio navegador (Chrome, Edge, Safari). Vem em todos os planos.",
     ],
     Desenho: Voz,
   },
 ];
 
-/** Seção "Novidades": as três coisas novas, logo depois da capa. */
+/** Seção logo depois da capa: o boletim do pet, o caderno que vira cadastro e a voz, com o desenho da tela ao lado. */
 export default function NovidadesVenda() {
   return (
-    <section className="gp-nv-sec" id="novidades" aria-labelledby="novidades-titulo">
+    <section className="gp-nv-sec" id="destaques" aria-labelledby="destaques-titulo">
       <div className="gp-c">
-        <p className="gp-ia"><Sparkles />Novo no Maestro Pet</p>
-        <h2 id="novidades-titulo">Boletim do pet, caderno que vira cadastro <em>e voz no lugar do teclado.</em></h2>
-        <p className="gp-lead">Três coisas novas, feitas para a rotina de quem está com o pet na mão.</p>
-        <nav className="gp-nv-atalhos" aria-label="Novidades">
+        <p className="gp-ia"><Sparkles />Para quem está com o pet na mão</p>
+        <h2 id="destaques-titulo">Boletim do pet, caderno que vira cadastro <em>e voz no lugar do teclado.</em></h2>
+        <p className="gp-lead">Três coisas feitas para a rotina de quem atende: o tutor vê o cuidado, você não digita de novo e fala em vez de escrever.</p>
+        <nav className="gp-nv-atalhos" aria-label="Destaques">
           {NOVIDADES.map((n, i) => <a key={n.id} href={`#novo-${n.id}`}><span>{String(i + 1).padStart(2, "0")}</span>{n.selo}</a>)}
         </nav>
         <ol className="gp-nv">

diff --git a/src/app/(gestao)/gestao/produto.css b/src/app/(gestao)/gestao/produto.css
@@ -115,6 +115,15 @@
 .gp-grade span { color: var(--cinza); font-size: 1rem; line-height: 1.45; }
 
 /* ---------- planos ---------- */
+/* Novidades: o que chegou por último, em cartões curtos */
+.gp-recentes { background: var(--creme2); padding-block: clamp(4rem, 3rem + 6vw, 7rem); scroll-margin-top: 1rem; }
+.gp-recentes h2 { color: var(--v); }
+.gp-recentes-lista { list-style: none; padding: 0; margin: 2.5rem 0 0; display: grid; gap: 14px; grid-template-columns: repeat(auto-fill, minmax(min(100%, 260px), 1fr)); }
+.gp-recentes-lista li { background: #fffdf9; border-radius: 16px; padding: 1.25rem 1.3rem 1.4rem; display: grid; gap: .4rem; align-content: start; border: 1px solid rgba(31, 27, 23, .08); }
+.gp-recentes-ico { width: 40px; height: 40px; border-radius: 12px; display: grid; place-items: center; background: #dcebe2; color: #24543b; margin-bottom: .35rem; }
+.gp-recentes-ico svg { width: 20px; height: 20px; }
+.gp-recentes-lista b { font: 600 1.125rem/1.25 var(--sans); }
+.gp-recentes-lista li > span:last-child { color: var(--cinza); font-size: 1rem; line-height: 1.45; }
 .gp-planos { padding-block: clamp(4rem, 3rem + 6vw, 7rem); scroll-margin-top: 1rem; }
 .gp-planos h2, .gp-planos .gp-lead { text-align: center; margin-inline: auto; }
 .gp-planos h2 { color: var(--v); }
@@ -357,7 +366,7 @@
 .gp-bm-nome { font: 460 1.875rem/1 var(--display); color: var(--v); margin-top: -.35rem !important; }
 .gp-bm-quando { display: flex; align-items: center; gap: .5rem; flex-wrap: wrap; font-size: .8125rem; color: var(--cinza); }
 .gp-bm-quando span { padding: 2px 9px; border-radius: 999px; background: #dcebe2; color: var(--v); font-weight: 600; }
-.gp-nv-tela .gp-bm-fotos svg { width: 100%; height: auto; display: block; }
+.gp-nv-tela .gp-bm-fotos img { width: 100%; height: auto; aspect-ratio: 4 / 5; object-fit: cover; display: block; border-radius: 14px; background: #f3ece2; }
 .gp-bm-fotos { display: grid; grid-template-columns: 1fr 1fr; gap: .45rem; }
 .gp-bm-carta { position: relative; padding: .75rem .8rem .7rem 2.2rem; border-radius: 14px; background: #fff; border: 1px solid rgba(31, 27, 23, .08); }
 .gp-bm-carta > svg { position: absolute; left: .75rem; top: .8rem; color: var(--laranja2); }

diff --git a/src/app/gestao.css b/src/app/gestao.css
@@ -600,7 +600,7 @@ a.g-card:hover { transform: translateY(-2px); box-shadow: 0 2px 4px rgba(31, 27,
 .g-proximo.vazio { background: linear-gradient(160deg, #f4f8f1 0%, var(--t-menta) 100%); border-color: rgba(36, 84, 59, .14); }
 .g-proximo .quem { display: flex; align-items: center; gap: 14px; min-width: 0; }
 .g-proximo .quem b { display: block; font: 480 1.625rem/1.1 var(--display); letter-spacing: -.01em; overflow: hidden; text-overflow: ellipsis; white-space: nowrap; }
-.g-proximo .quem span { display: block; font-size: .9375rem; color: #6b4a2f; overflow: hidden; text-overflow: ellipsis; white-space: nowrap; }
+.g-proximo .quem > div span { display: block; font-size: .9375rem; color: #6b4a2f; overflow: hidden; text-overflow: ellipsis; white-space: nowrap; }
 .g-proximo .quando { display: flex; align-items: baseline; gap: 10px; flex-wrap: wrap; }
 .g-proximo .quando b { font: 460 2.5rem/1 var(--display); letter-spacing: -.02em; font-variant-numeric: tabular-nums; }
 .g-proximo .g-avatar { box-shadow: 0 0 0 3px #fffbf5, 0 8px 18px -8px rgba(31, 27, 23, .5); }
